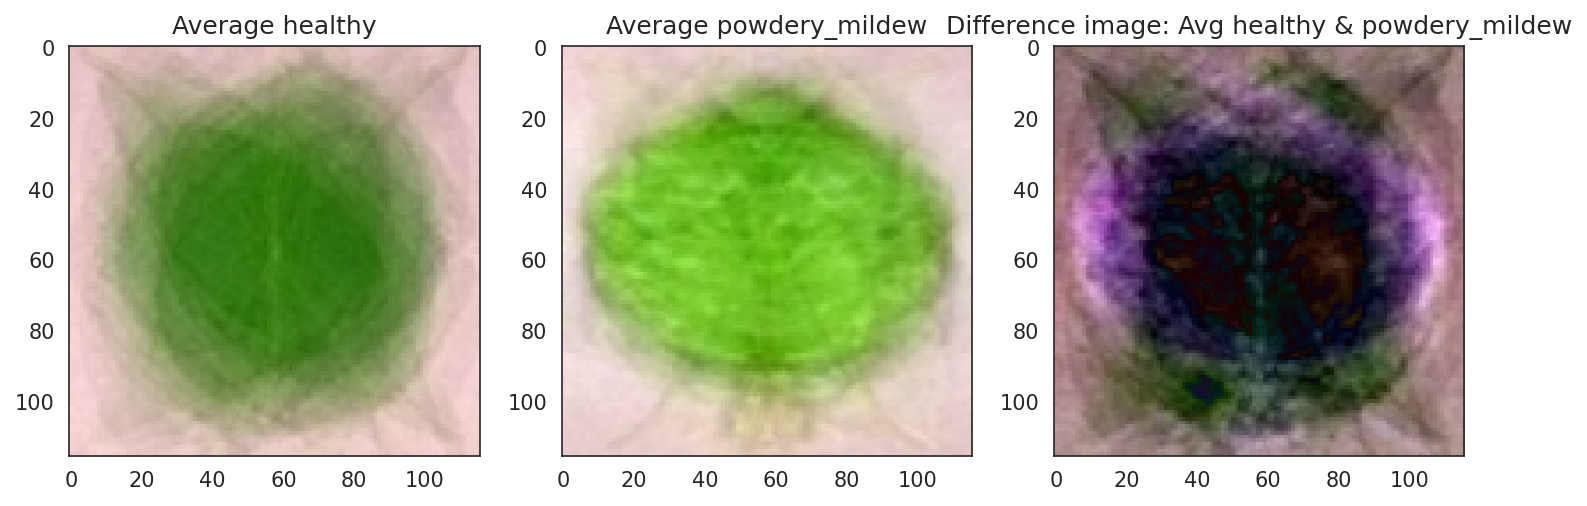
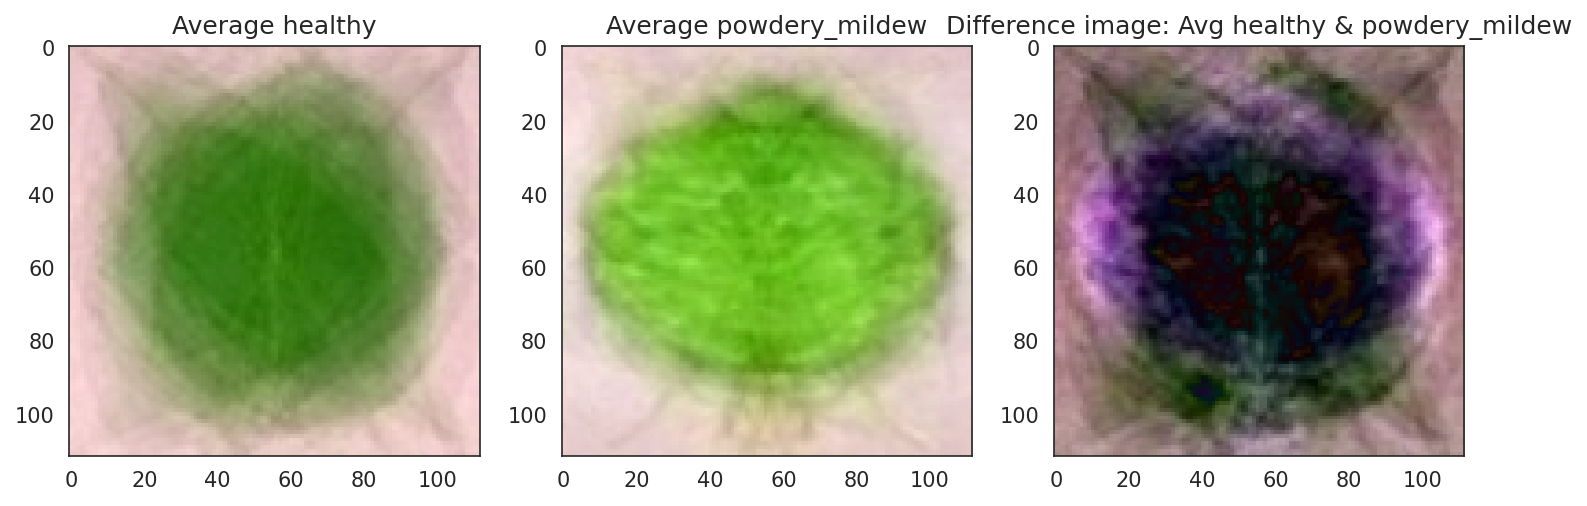
fixed the image upload and powdery mildew detection

diff --git a/src/machine_learning/predictive_analysis.py b/src/machine_learning/predictive_analysis.py
@@ -1,64 +1,120 @@
-import streamlit as st
-import numpy as np
-import pandas as pd
+import streamlit as st 
+import numpy as np 
+import pandas as pd 
 import plotly.express as px
 from tensorflow.keras.models import load_model
 from PIL import Image
-from src.data_management import load_pkl_file
+from src.data_management import load_pkl_file 
 
+# Function to plot prediction probabilities as a bar graph using Plotly
 def plot_predictions_probabilities(pred_proba, pred_class):
-    """
-    Visualize the prediction probabilities for each class.
-    """
-    prob_per_class = pd.DataFrame(
-        data=[pred_proba, 1 - pred_proba],
-        index=['Healthy', 'Powdery Mildew'],
-        columns=['Probability']
-    )
+    '''
+    Plots the probabilistic result of an image being 'infected' or 'healthy' as a bar graph.
+    We use Plotly to create an interactive bar chart that shows the probability per class ('Healthy' or 'Infected').
+    This function uses Streamlit's plotly_chart to render the plot in the web app.
     
-    prob_per_class['Diagnostic'] = prob_per_class.index
+    Parameters:
+    pred_proba (float): Probability of the image being 'infected'.
+    pred_class (str): Predicted class label ('Healthy' or 'Infected').
+    '''
 
+    # Create a DataFrame to store probabilities for each class
+    prob_per_class = pd.DataFrame(
+        data=[0, 0],  # Initialize both probabilities to 0
+        index={'Healthy': 1, 'Infected': 0}.keys(),  # Labels for the rows
+        columns=['Probability']  # Column name
+    )
+
+    # Update DataFrame with the predicted probability
+    prob_per_class.loc[pred_class] = pred_proba
+
+    # Set the probability for the other class to 1 - predicted probability
+    for x in prob_per_class.index.to_list():
+        if x not in pred_class:
+            prob_per_class.loc[x] = 1 - pred_proba
+
+    # Round the probabilities to three decimal places for display
+    prob_per_class = prob_per_class.round(3)
+
+    # Add a column to identify the diagnostic category
+    prob_per_class["Diagnostic"] = prob_per_class.index
+
+    # Create the bar plot using Plotly
     fig = px.bar(
         prob_per_class,
-        x='Diagnostic',
-        y='Probability',
-        range_y=[0, 1],
-        width=600, height=300, template='seaborn'
+        x='Diagnostic',  # x-axis: 'Healthy' or 'Infected'
+        y='Probability',  # y-axis: predicted probabilities
+        range_y=[0, 1],  # Set y-axis range from 0 to 1
+        width=600, height=300,  # Set plot dimensions
+        template='seaborn'  # Plotly template style
     )
+
+    # Render the plot in the Streamlit app
     st.plotly_chart(fig)
 
+# Function to resize the input image to the required shape for model prediction
 def resize_input_image(img, version):
-    """
-    Adjust the input image to match the expected model dimensions.
-    """
+    '''
+    Resizes the input image to the average image size expected by the model.
+    Loads the average image dimensions from a pickle file to ensure compatibility with the model.
+    
+    Parameters:
+    img (PIL.Image): The input image to be resized.
+    version (str): The version of the model, used to locate the image shape file.
+    
+    Returns:
+    np.ndarray: The resized image normalized to a scale of 0 to 1.
+    '''
+    
+    # Load the target image shape from a pickle file
     image_shape = load_pkl_file(file_path=f"outputs/{version}/image_shape.pkl")
+
+    # Resize the image to the required dimensions using LANCZOS resampling
     img_resized = img.resize((image_shape[1], image_shape[0]), Image.LANCZOS)
-    my_image = np.expand_dims(np.array(img_resized), axis=0) / 255.0
+
+    # Expand dimensions to match model input shape and normalize pixel values
+    my_image = np.expand_dims(img_resized, axis=0) / 255
 
     return my_image
 
+# Function to load the ML model and predict the class of the input image
 def load_model_and_predict(my_image, version):
-    """
-    Load the model and make predictions on the input image.
-    """
-    model = load_model(f"outputs/{version}/cherry_leaves_model.h5")
-
-    # Ensure the image array is correctly formatted
-    if my_image is None or not isinstance(my_image, np.ndarray):
-        raise ValueError("The input image is not correctly formatted.")
-
-    pred_proba = model.predict(my_image)[0, 0]
+    '''
+    Loads a pre-trained machine learning model and predicts whether the input image is 'healthy' or 'infected'.
+    It also calculates the probability associated with the prediction.
     
-    target_map = {0: 'Healthy', 1: 'Powdery Mildew'}
-    pred_class = target_map[pred_proba > 0.5]
+    Parameters:
+    my_image (np.ndarray): The processed image ready for model prediction.
+    version (str): The version of the model to be loaded.
+    
+    Returns:
+    tuple: The prediction probability and predicted class label.
+    '''
+    
+    # Load the pre-trained model from the specified path
+    model = load_model(f'outputs/{version}/cherry_leaves_model.h5')
 
-    if pred_class == 'Healthy':
+    # Predict the probability of the 'infected' class
+    pred_proba = model.predict(my_image)[0, 0]
+
+    # Map the numeric prediction to a human-readable label
+    target_map = {v: k for k, v in {'Infected': 1, 'Healthy': 0}.items()}
+    pred_class = target_map[pred_proba > 0.5]  # Classify based on probability threshold (0.5)
+
+    # Adjust probability if the prediction is 'Healthy'
+    if pred_class == target_map[0]:
         pred_proba = 1 - pred_proba
 
+    # Display the prediction result on the Streamlit app
     st.write(
-        f"The predictive analysis indicates that the cherry leaf is "
-        f"**{pred_class.lower()}**."
+        f'The predictive analysis indicates the leaf image is '
+        f'**{pred_class.lower()}**.'
     )
 
     return pred_proba, pred_class
+
+
+
+
+
 

diff --git a/app_pages/page_cherry_leaves_detector.py b/app_pages/page_cherry_leaves_detector.py
@@ -15,7 +15,7 @@ def resize_input_image(img, version):
     """
     Adjust the input image to match the expected model dimensions of 160x160 pixels.
     """
-    image_shape = (160, 160)  # Update to 160x160 dimensions
+    image_shape = (112, 112)  # Update to 112x112 dimensions
     img_resized = img.resize((image_shape[1], image_shape[0]), Image.LANCZOS)
     img_array = np.array(img_resized)
     img_array = np.expand_dims(img_array, axis=0) / 255.0  # Normalize and add batch dimension
@@ -37,7 +37,7 @@ def page_cherry_leaves_detector_body():
     st.write("---")
 
     images_buffer = st.file_uploader('Upload cherry leaf images. You may select more than one.',
-                                     type='png', accept_multiple_files=True)
+                                     accept_multiple_files=True)
 
     if images_buffer is not None:
         df_report = pd.DataFrame([])
